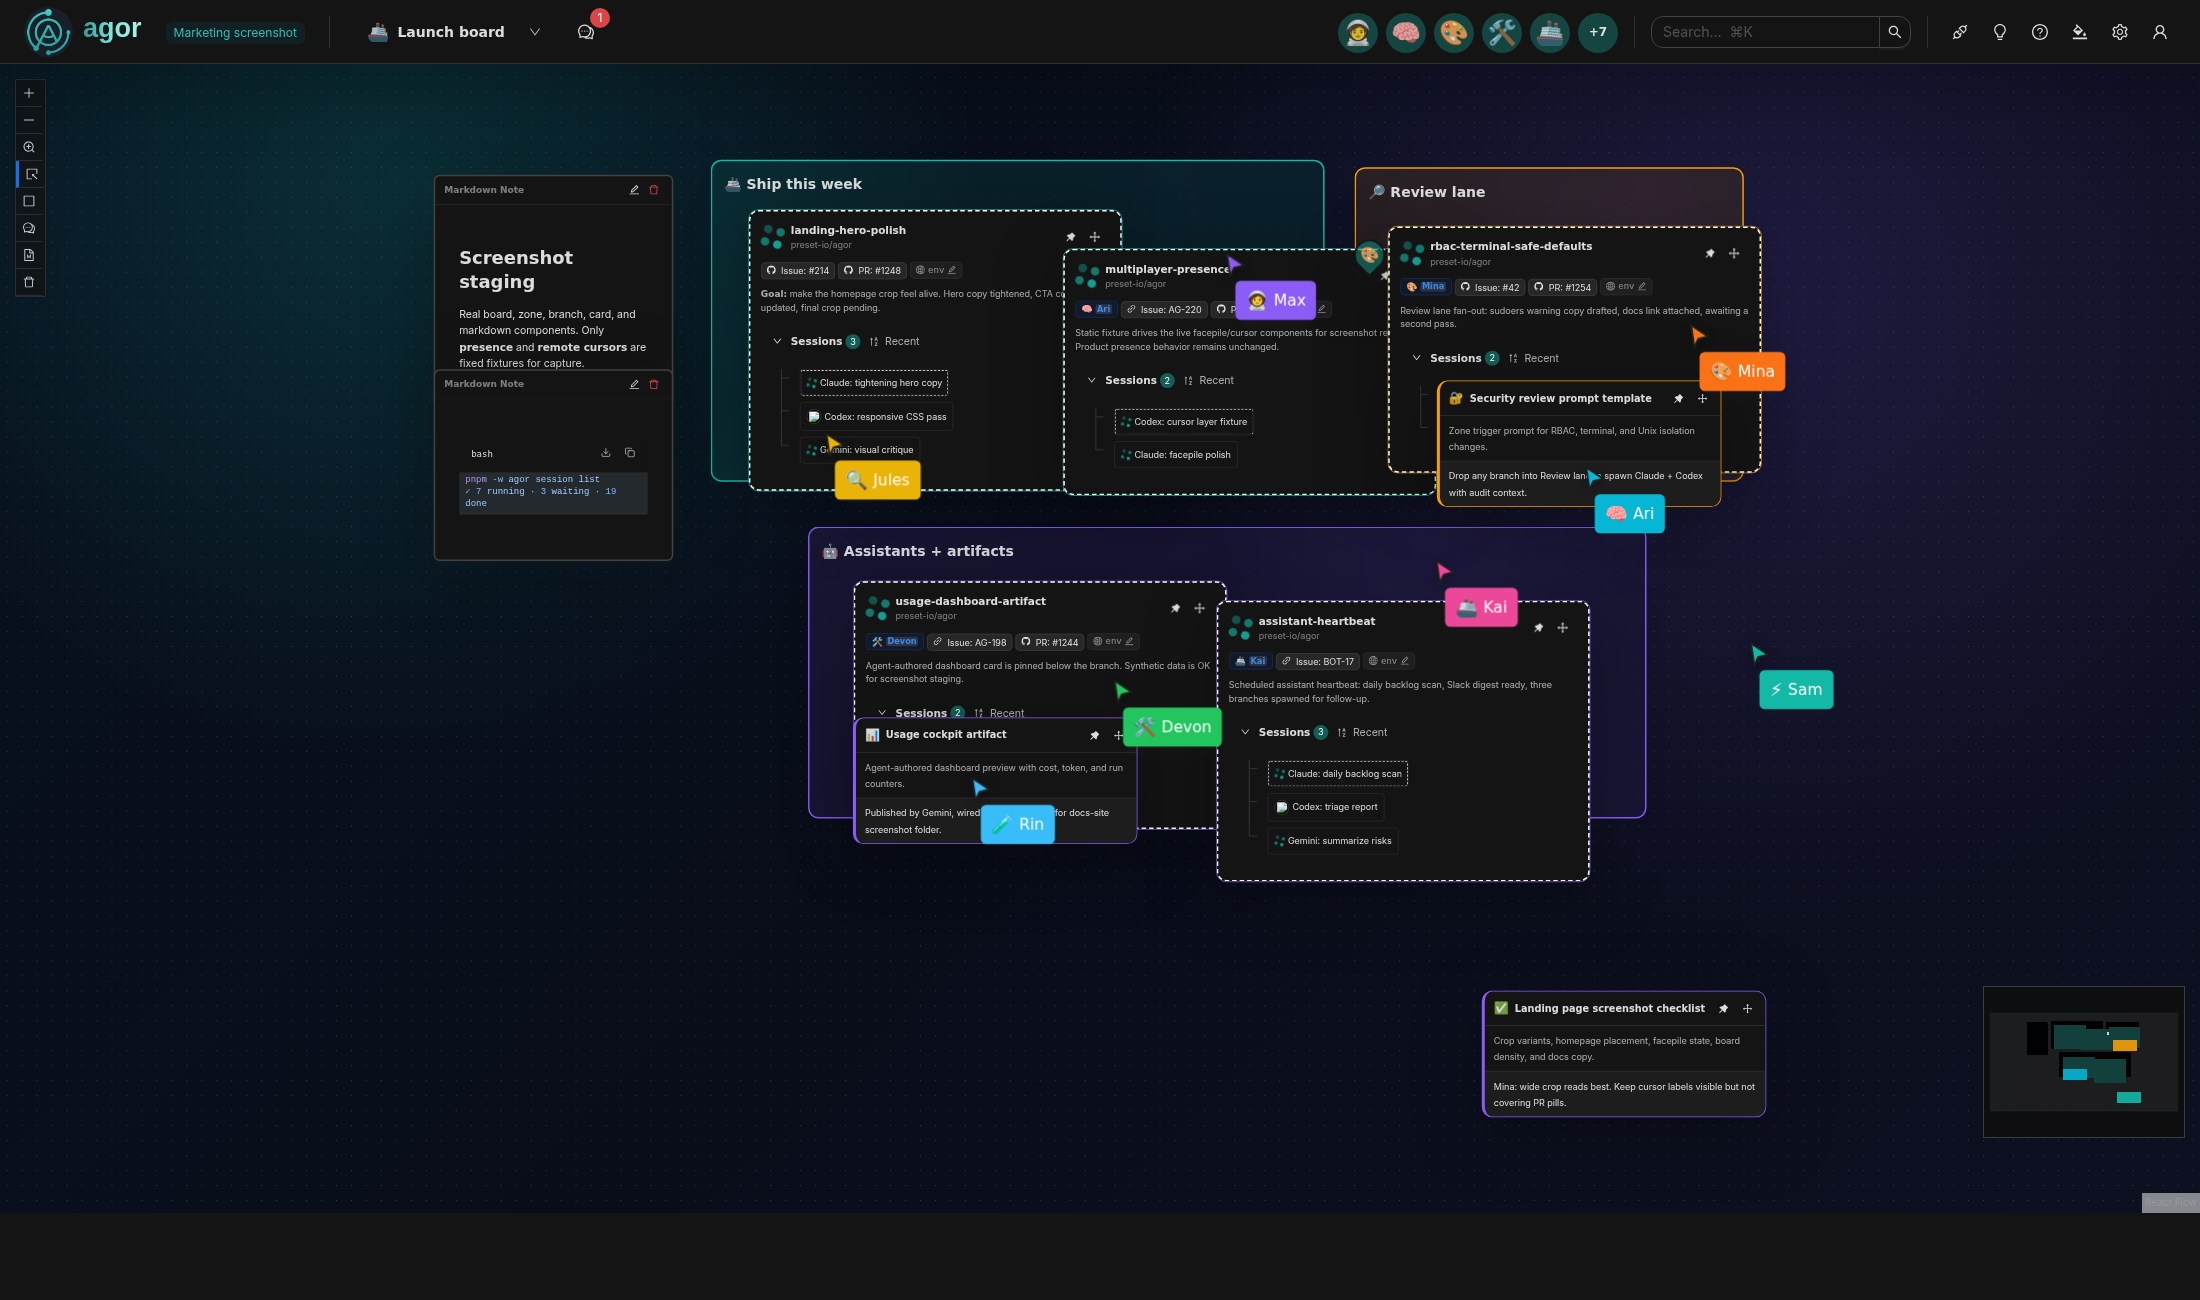
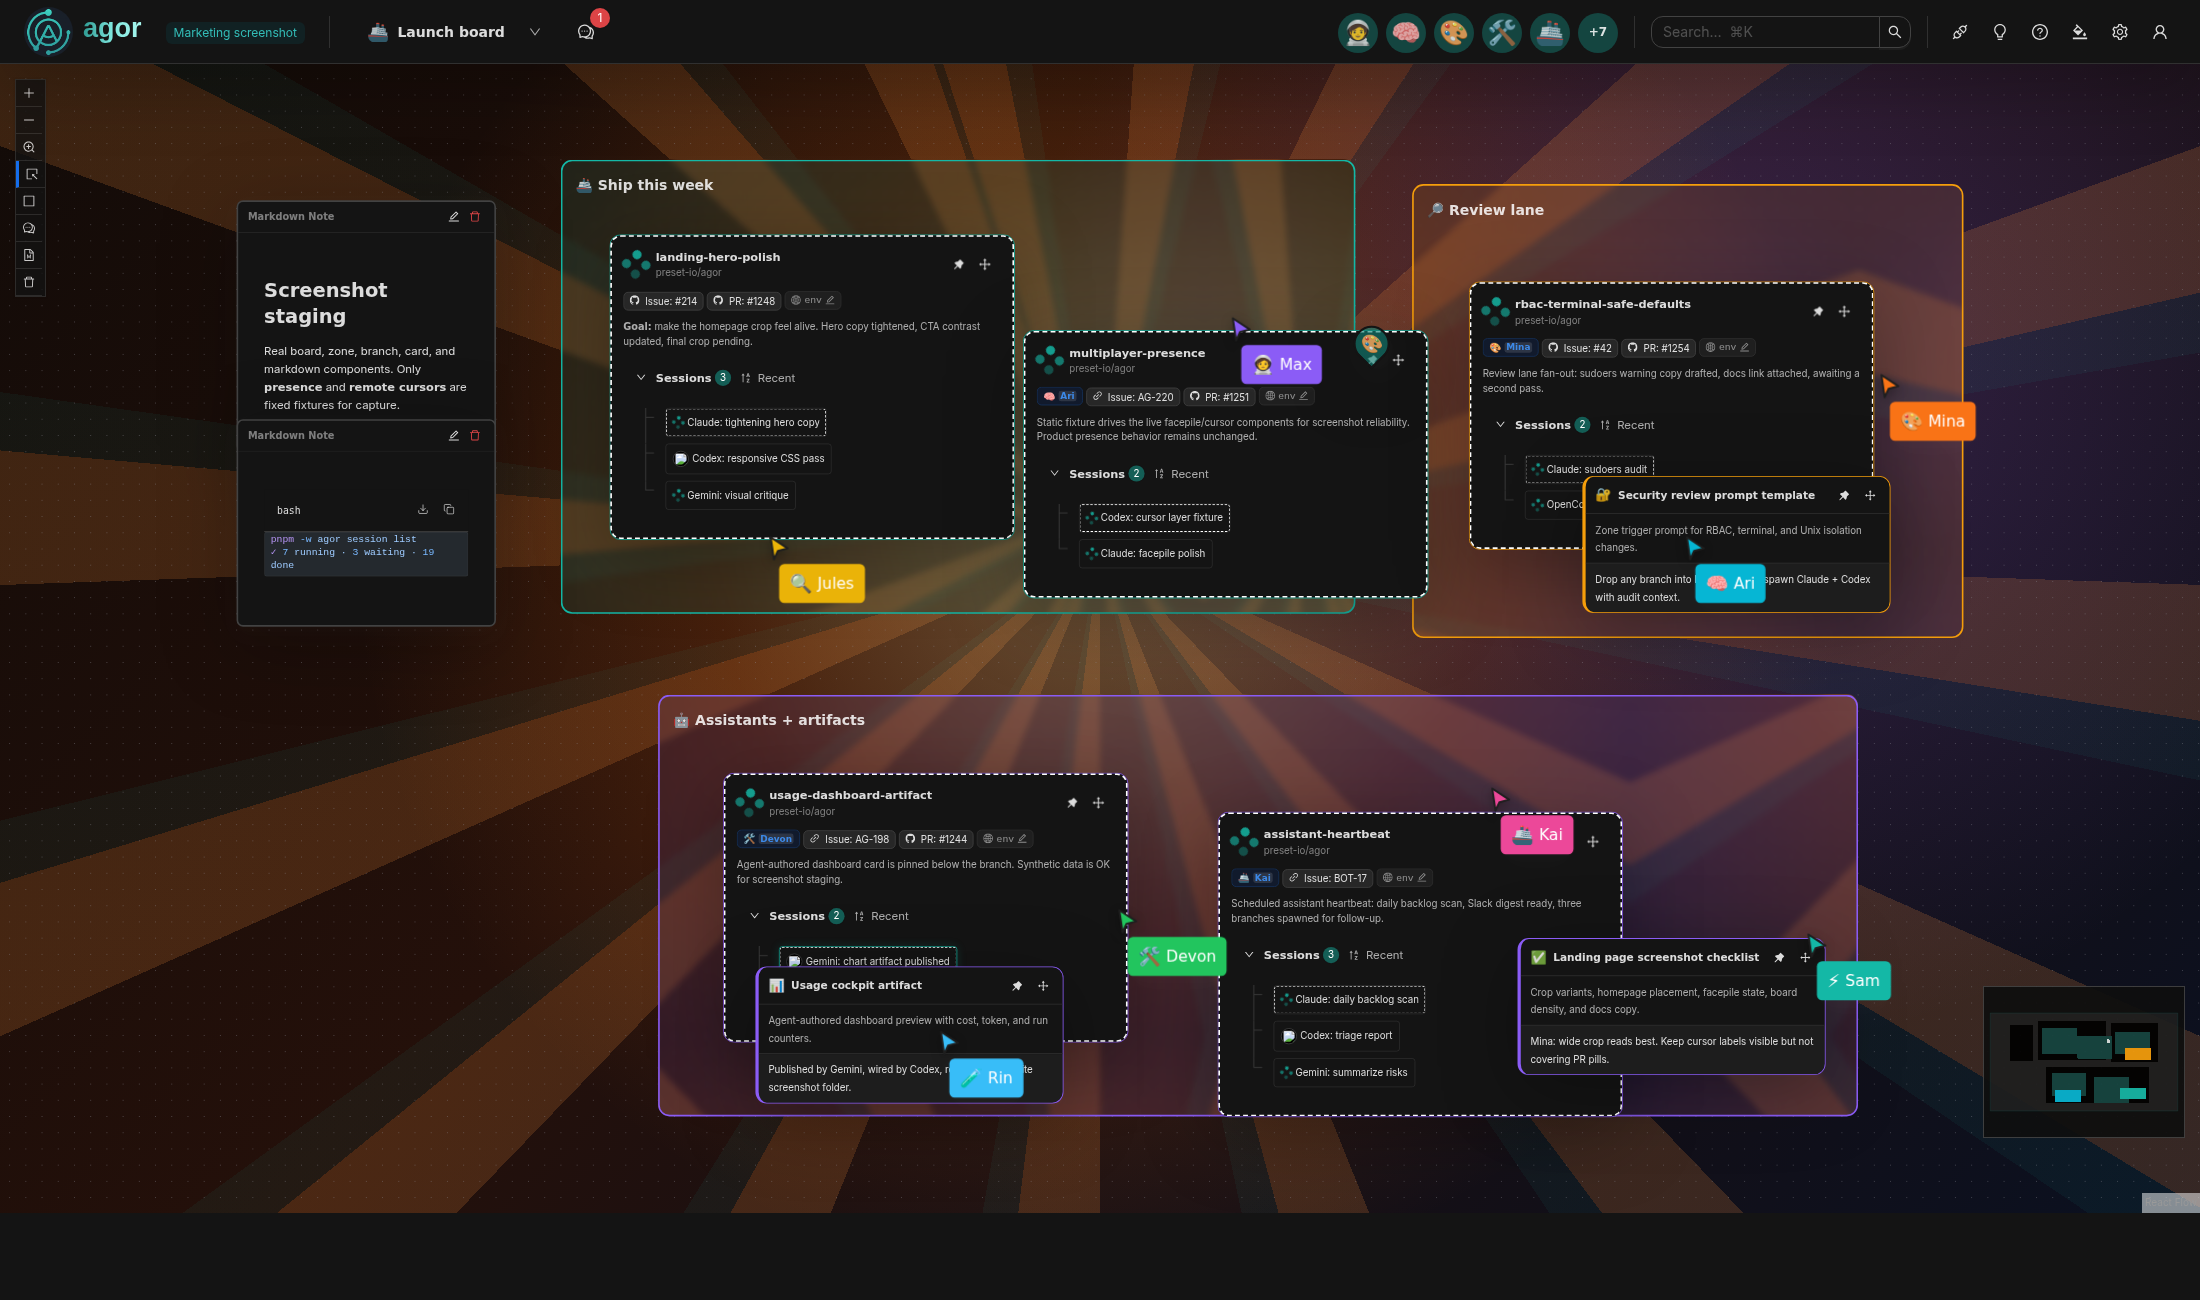
Polish marketing board screenshot composition

diff --git a/apps/agor-ui/src/pages/MarketingScreenshotPage.tsx b/apps/agor-ui/src/pages/MarketingScreenshotPage.tsx
@@ -55,14 +55,14 @@ const board: Board = {
   archived: false,
   url: '/demo/marketing-screenshots',
   background_color:
-    'radial-gradient(circle at 18% 10%, rgba(20,184,166,0.18), transparent 28%), radial-gradient(circle at 80% 20%, rgba(139,92,246,0.16), transparent 32%), linear-gradient(135deg, #07111d 0%, #090d1a 52%, #0d1020 100%)',
+    'radial-gradient(circle at 50% 42%, rgba(255,214,140,0.34) 0%, rgba(249,115,22,0.16) 30%, transparent 58%), repeating-conic-gradient(from -18deg at 50% 42%, rgba(251,146,60,0.18) 0deg 7deg, rgba(20,184,166,0.06) 7deg 10deg, transparent 10deg 22deg), radial-gradient(circle at 78% 26%, rgba(139,92,246,0.26), transparent 36%), linear-gradient(135deg, #120b08 0%, #24100a 42%, #0a1020 100%)',
   objects: {
     'zone-ship': {
       type: 'zone',
-      x: 80,
-      y: 70,
-      width: 820,
-      height: 430,
+      x: 40,
+      y: 60,
+      width: 980,
+      height: 560,
       label: '🚢 Ship this week',
       borderColor: '#14b8a6',
       backgroundColor: 'rgba(20,184,166,0.10)',
@@ -75,10 +75,10 @@ const board: Board = {
     },
     'zone-review': {
       type: 'zone',
-      x: 940,
-      y: 80,
-      width: 520,
-      height: 420,
+      x: 1090,
+      y: 90,
+      width: 680,
+      height: 560,
       label: '🔎 Review lane',
       borderColor: '#f59e0b',
       backgroundColor: 'rgba(245,158,11,0.10)',
@@ -91,10 +91,10 @@ const board: Board = {
     },
     'zone-assistants': {
       type: 'zone',
-      x: 210,
-      y: 560,
-      width: 1120,
-      height: 390,
+      x: 160,
+      y: 720,
+      width: 1480,
+      height: 520,
       label: '🤖 Assistants + artifacts',
       borderColor: '#8b5cf6',
       backgroundColor: 'rgba(139,92,246,0.11)',
@@ -107,16 +107,16 @@ const board: Board = {
     },
     'note-launch': {
       type: 'markdown',
-      x: -290,
-      y: 90,
+      x: -360,
+      y: 110,
       width: 320,
       content:
         '### Screenshot staging\n\nReal board, zone, branch, card, and markdown components. Only **presence** and **remote cursors** are fixed fixtures for capture.',
     },
     'note-terminal': {
       type: 'markdown',
-      x: -290,
-      y: 350,
+      x: -360,
+      y: 380,
       width: 320,
       content: '```bash\npnpm -w agor session list\n✓ 7 running · 3 waiting · 19 done\n```',
     },
@@ -156,7 +156,7 @@ const branchFixtures = [
     name: 'landing-hero-polish',
     ref: 'landing-hero-polish',
     zoneId: 'zone-ship',
-    position: { x: 50, y: 66 },
+    position: { x: 60, y: 92 },
     issue: 'https://github.com/preset-io/agor/issues/214',
     pr: 'https://github.com/preset-io/agor/pull/1248',
     notes:
@@ -173,7 +173,7 @@ const branchFixtures = [
     name: 'multiplayer-presence',
     ref: 'multiplayer-presence',
     zoneId: 'zone-ship',
-    position: { x: 470, y: 118 },
+    position: { x: 570, y: 210 },
     issue: 'https://linear.app/agor/issue/AG-220',
     pr: 'https://github.com/preset-io/agor/pull/1251',
     notes:
@@ -189,7 +189,7 @@ const branchFixtures = [
     name: 'rbac-terminal-safe-defaults',
     ref: 'rbac-terminal-safe-defaults',
     zoneId: 'zone-review',
-    position: { x: 44, y: 78 },
+    position: { x: 70, y: 120 },
     issue: 'https://github.com/preset-io/agor/issues/42',
     pr: 'https://github.com/preset-io/agor/pull/1254',
     notes:
@@ -205,7 +205,7 @@ const branchFixtures = [
     name: 'usage-dashboard-artifact',
     ref: 'usage-dashboard-artifact',
     zoneId: 'zone-assistants',
-    position: { x: 60, y: 72 },
+    position: { x: 80, y: 96 },
     issue: 'https://linear.app/agor/issue/AG-198',
     pr: 'https://github.com/preset-io/agor/pull/1244',
     notes:
@@ -221,7 +221,7 @@ const branchFixtures = [
     name: 'assistant-heartbeat',
     ref: 'assistant-heartbeat',
     zoneId: 'zone-assistants',
-    position: { x: 545, y: 98 },
+    position: { x: 690, y: 144 },
     issue: 'https://linear.app/agor/issue/BOT-17',
     notes:
       'Scheduled assistant heartbeat: daily backlog scan, Slack digest ready, three branches spawned for follow-up.',
@@ -363,7 +363,7 @@ const cardObjects: BoardEntityObject[] = [
     board_id: boardId,
     card_id: cards[0].card_id,
     entity_type: 'card',
-    position: { x: 900, y: 620 },
+    position: { x: 1060, y: 300 },
     zone_id: 'zone-assistants',
     created_at: now,
   },
@@ -372,7 +372,7 @@ const cardObjects: BoardEntityObject[] = [
     board_id: boardId,
     card_id: cards[1].card_id,
     entity_type: 'card',
-    position: { x: 60, y: 255 },
+    position: { x: 120, y: 335 },
     zone_id: 'zone-assistants',
     created_at: now,
   },
@@ -381,7 +381,7 @@ const cardObjects: BoardEntityObject[] = [
     board_id: boardId,
     card_id: cards[2].card_id,
     entity_type: 'card',
-    position: { x: 110, y: 285 },
+    position: { x: 210, y: 360 },
     zone_id: 'zone-review',
     created_at: now,
   },
@@ -402,8 +402,8 @@ const comments: BoardComment[] = [
       relative: {
         parent_id: branchFixtures[1].id,
         parent_type: 'branch',
-        offset_x: 410,
-        offset_y: 44,
+        offset_x: 430,
+        offset_y: 54,
       },
     },
     mentions: [users[0].user_id],
@@ -419,14 +419,14 @@ const activeUsers: ActiveUser[] = users.map((user, index) => ({
 }));
 
 const staticCursors: StaticRemoteCursor[] = [
-  { userId: users[0].user_id, user: users[0], color: '#8b5cf6', x: 760, y: 190 },
-  { userId: users[1].user_id, user: users[1], color: '#06b6d4', x: 1240, y: 475 },
-  { userId: users[2].user_id, user: users[2], color: '#f97316', x: 1380, y: 285 },
-  { userId: users[3].user_id, user: users[3], color: '#22c55e', x: 610, y: 760 },
-  { userId: users[4].user_id, user: users[4], color: '#ec4899', x: 1040, y: 600 },
-  { userId: users[5].user_id, user: users[5], color: '#eab308', x: 225, y: 430 },
-  { userId: users[6].user_id, user: users[6], color: '#14b8a6', x: 1460, y: 710 },
-  { userId: users[7].user_id, user: users[7], color: '#38bdf8', x: 420, y: 890 },
+  { userId: users[0].user_id, user: users[0], color: '#8b5cf6', x: 860, y: 250 },
+  { userId: users[1].user_id, user: users[1], color: '#06b6d4', x: 1420, y: 520 },
+  { userId: users[2].user_id, user: users[2], color: '#f97316', x: 1660, y: 320 },
+  { userId: users[3].user_id, user: users[3], color: '#22c55e', x: 720, y: 980 },
+  { userId: users[4].user_id, user: users[4], color: '#ec4899', x: 1180, y: 830 },
+  { userId: users[5].user_id, user: users[5], color: '#eab308', x: 290, y: 520 },
+  { userId: users[6].user_id, user: users[6], color: '#14b8a6', x: 1570, y: 1010 },
+  { userId: users[7].user_id, user: users[7], color: '#38bdf8', x: 500, y: 1130 },
 ];
 
 export const MarketingScreenshotPage = () => {

diff --git a/context/marketing/screenshots/README.md b/context/marketing/screenshots/README.md
@@ -23,9 +23,13 @@ It is intentionally hardcoded and daemon-free. `apps/agor-ui/src/App.tsx` short-
 
 - `context/marketing/screenshots/agor-marketing-board.png` — 1600×1000 crop for quick previews
 - `context/marketing/screenshots/agor-marketing-board-wide.png` — 2200×1300 wide hero composition
+- `context/marketing/screenshots/agor-marketing-comment-popover.png` — close crop of spatial comment + branch card
+- `context/marketing/screenshots/agor-marketing-facepile-tooltip.png` — close crop of facepile overflow/tooltip behavior
 - Public docs copies:
   - `apps/agor-docs/public/screenshots/marketing/agor-marketing-board.png`
   - `apps/agor-docs/public/screenshots/marketing/agor-marketing-board-wide.png`
+  - `apps/agor-docs/public/screenshots/marketing/agor-marketing-comment-popover.png`
+  - `apps/agor-docs/public/screenshots/marketing/agor-marketing-facepile-tooltip.png`
 
 ## Reproduce/update
 
